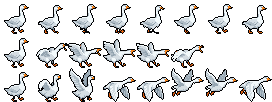
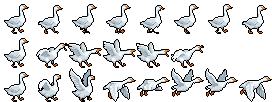
Goose fly row cell 5: the wings-level stroke by rule (wings off the belly, one wing level on the back, feet tucked, ink closed)
Claude-Session: https://claude.ai/code/session_01XkeHCjP6hqrE6SQGDYHeYV

Changed region(s): [[0.5, 0.8824, 0.6176, 1.0], [0.5294, 0.7647, 0.5882, 0.8235]]

diff --git a/tools/fix_goose_fly.py b/tools/fix_goose_fly.py
@@ -13,6 +13,8 @@ The walk and hiss rows are not touched.
      shows is the near wing opening behind the back, the take-off into cell 3's wings up.
   5. (round 2) cells 2 and 3: the black stub off the beak (x 25-28 of the beak row and one pixel under it) taken out;
      the beak is a 2 x 2 orange tip closed with the ink, like the walk frames.
+  7. (night 6 Nov, cp fix round 1) cell 5: the wings-level stroke (the wings under the belly off, one wing level along
+     the back), so the loop is down, level, up, up, down instead of down, down, up, up, down.
   6. (night 6 Nov, cp track) cell 1 (the stand before take-off): the 2 px blotch asset_qa flags (x 9-10, y 90) to its ring.
 Run from the repo root on the original (art/source/goose/goose_before.png is kept): python3 tools/fix_goose_fly.py"""
 import json, os, shutil
@@ -54,6 +56,40 @@ for c, r in ((2, 8), (3, 9)):
         a[cpx(c, x, r - 1)] = INK if not a[cpx(c, x, r - 1)][3] or x >= 25 else a[cpx(c, x, r - 1)]
         a[cpx(c, x, r + 2)] = INK
     for x in range(27, 30): a[cpx(c, x, r + 2)] = 0
+# 7. (night 6 Nov, cp fix round 1; review cp_goose_fly: "frames 4 and 5 are near twins") cell 5 becomes the wings-level
+#    stroke between the down (cell 4) and up (cells 6-7) frames: from cell 5's glide, the two wings hanging under the
+#    belly (rows 22 and down) are taken off, the feet tucked under the tail as in cell 6, the belly closed with the ink;
+#    the near wing is laid level along the back, seen edge-on: a band over the back (rows 11-13, x 7-19) in the
+#    wing's own greys (lit top, mid, the dark primaries at its back end), closed with the ink.
+def P(x, y): return 68 + y, 4 * 34 + x                       # cell 5, x and y in the cell
+INK5 = INK
+G = {k: before[68 + y, 4 * 34 + x].copy() for k, (x, y) in {'1': (2, 19), '2': (3, 19), '3': (12, 14), '7': (8, 15)}.items()}
+for y in range(22, 34):
+    for x in range(0, 34): a[P(x, y)] = 0
+for y in range(23, 29):                                         # the feet tucked under the tail, as in cell 6 (1 row up)
+    for x in range(0, 12):
+        q = before[68 + y, 5 * 34 + x]
+        if q[3]: a[P(x, y - 1)] = q
+for x in range(1, 23):                                          # the belly's ink under the last body pixel
+    ys = [y for y in range(10, 22) if a[P(x, y)][3]]
+    if ys and not (a[P(x, ys[-1])][:3] == INK5[:3]).all():
+        a[P(x, ys[-1] + 1)] = INK5
+BAND = {11: (10, 16, None), 12: (8, 18, '3'), 13: (7, 19, '2')}
+for y, (x0, x1, c) in BAND.items():
+    for x in range(x0, x1 + 1):
+        edge = x in (x0, x1) or c is None
+        a[P(x, y)] = INK5 if edge else (G['7'] if x <= x0 + 3 else G[c])
+for x in range(8, 19): a[P(x, 14)] = G['1'] if x <= 11 else a[P(x, 14)]   # the wing's shade on the back
+for _ in range(1):                                              # the ink closed round every edge of the new cell 5
+    add = []
+    for y in range(34):
+        for x in range(34):
+            if a[P(x, y)][3]: continue
+            for dx, dy in ((1, 0), (-1, 0), (0, 1), (0, -1)):
+                if 0 <= x + dx < 34 and 0 <= y + dy < 34:
+                    q = a[P(x + dx, y + dy)]
+                    if q[3] and not (q[:3] == INK[:3]).all(): add.append((x, y)); break
+    for x, y in add: a[P(x, y)] = INK
 Image.fromarray(a).save(F)
 px = [[int(x), int(y), '#%02x%02x%02x%02x' % tuple(int(v) for v in a[y, x])] for y, x in zip(*np.nonzero((a != before).any(-1)))]
 json.dump({'asset': 'goose', 'base': SRC + 'goose_before.png (the file as on preview/05nov-night)',
